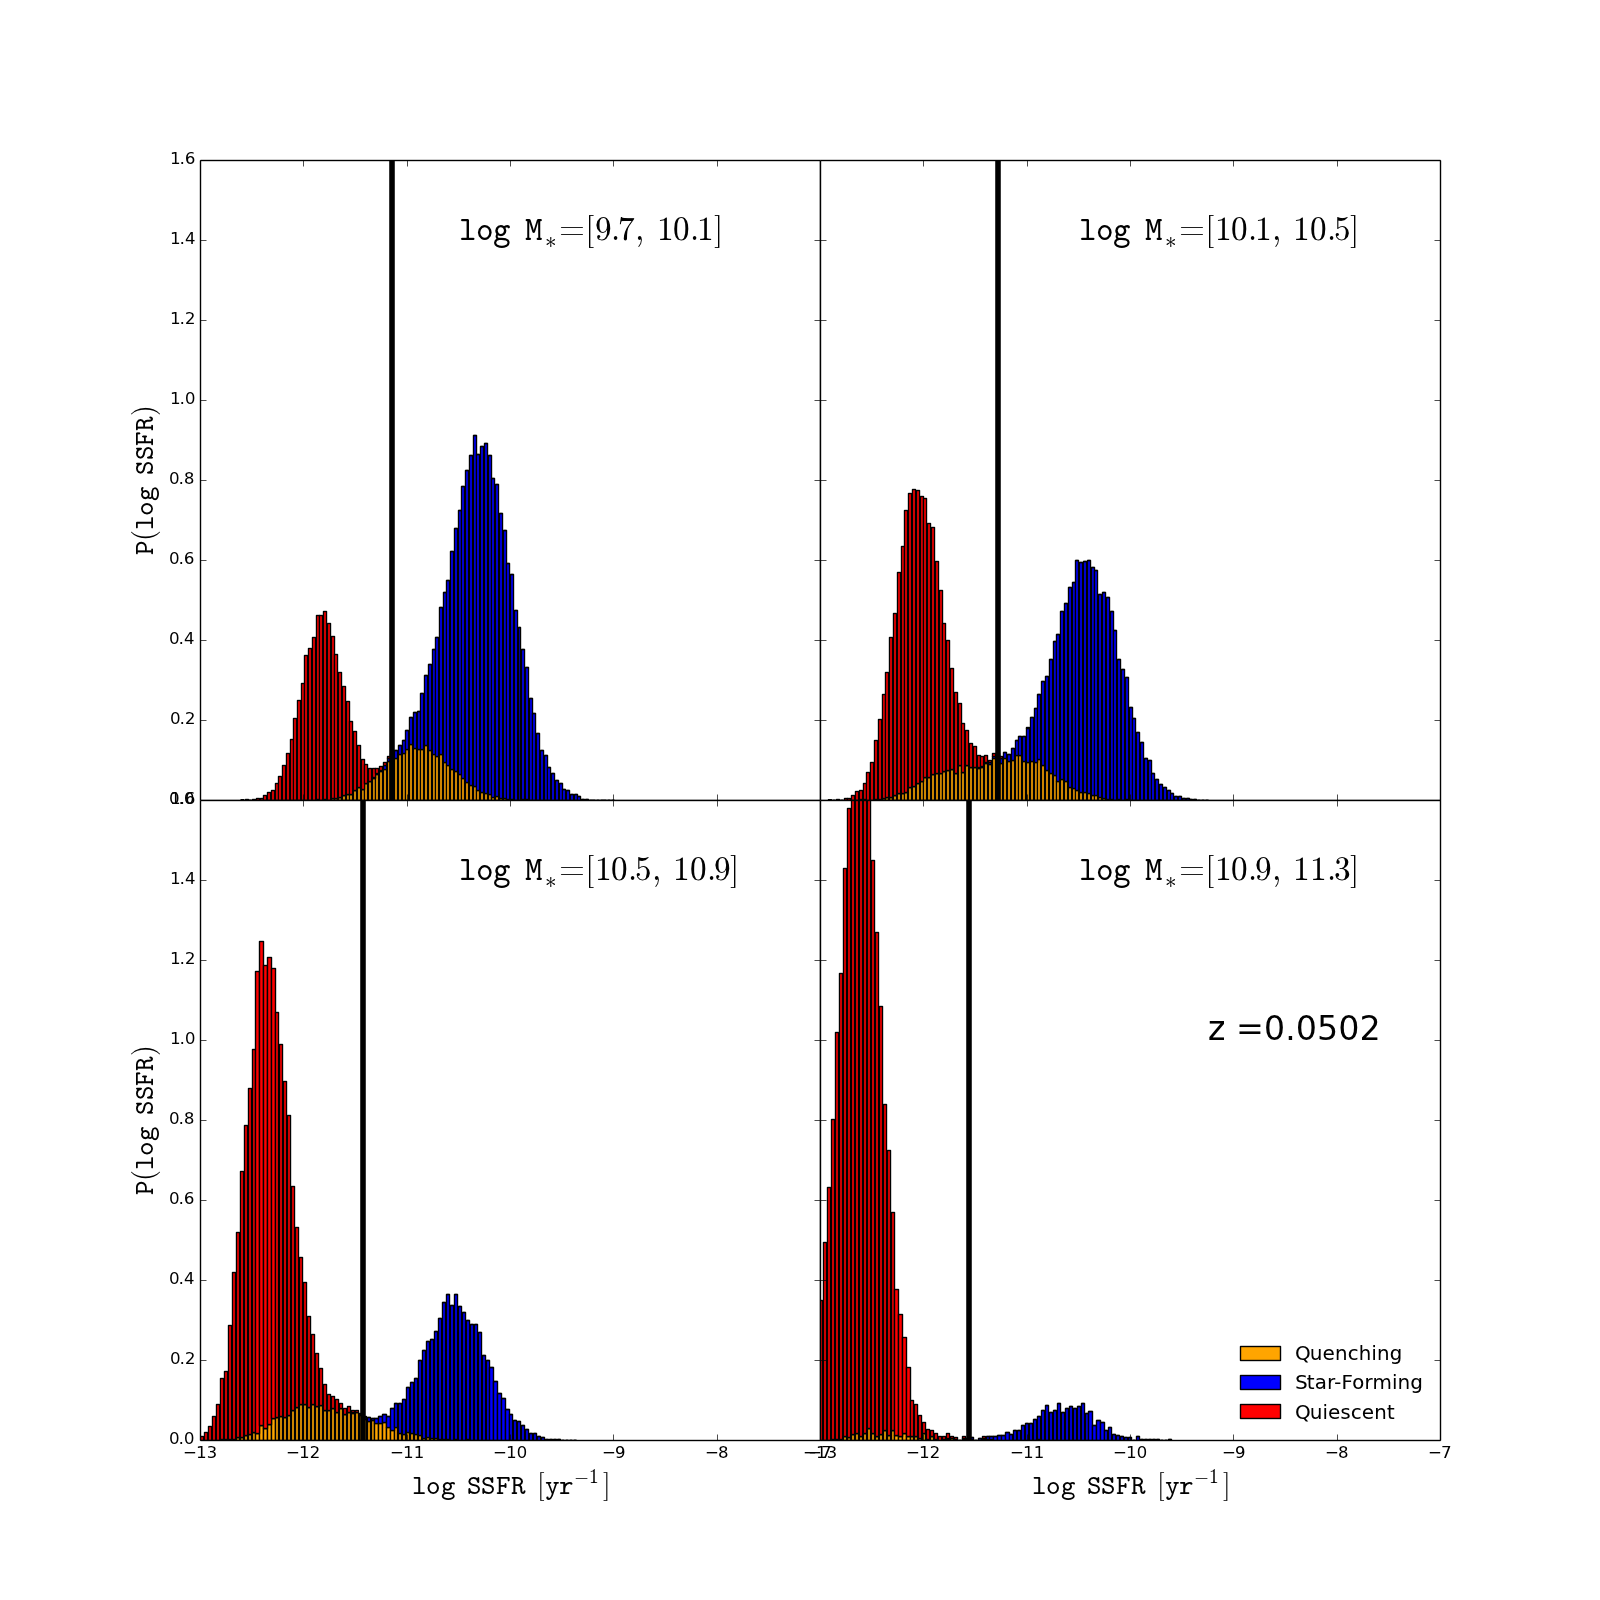
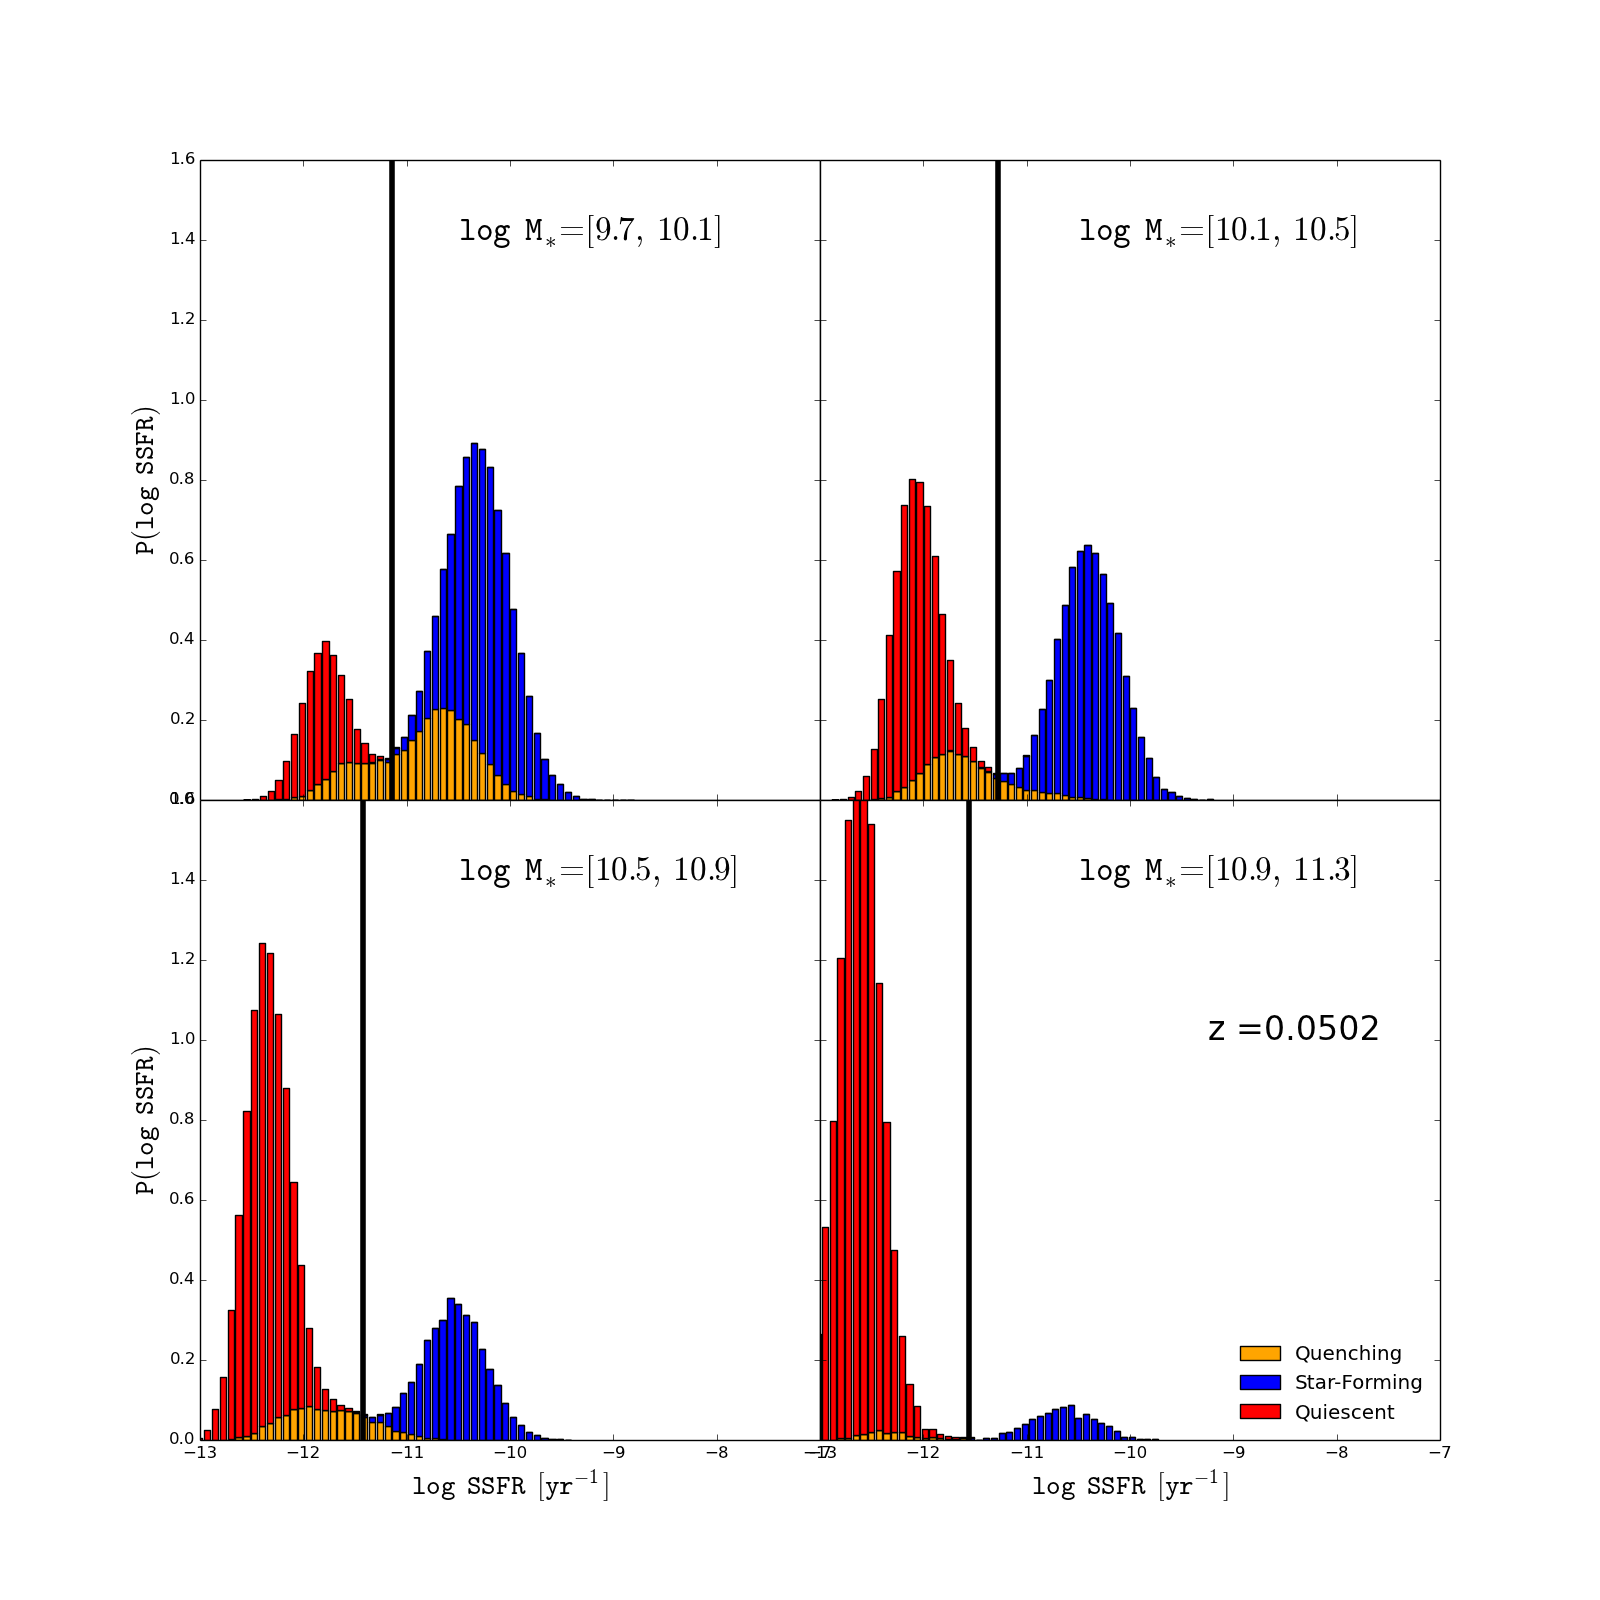
predictive quenching implemented

diff --git a/plotting/plot_cenque_fq.py b/plotting/plot_cenque_fq.py
@@ -28,6 +28,9 @@ def PlotFq(object):
         
         self.kwargs = kwargs
         
+        # Corresponding redshift for the snapshot 
+        self.zbin = np.loadtxt('snapshot_table.dat', unpack=True, usecols=[2])
+        
         self.mass_bin = np.arange(9.0, 12.0, 0.2)   # mass bin 
         self.mass_low = self.mass_bin[:-1]
         self.mass_high= self.mass_bin[1:]
@@ -46,10 +49,7 @@ def PlotFq(object):
         fq_type : type of queiscent fraction  
 
         """
-    
-        # Corresponding redshift for the snapshot 
-        zbin = np.loadtxt('snapshot_table.dat', unpack=True, usecols=[2])
-        zbin = zbin[nsnap]
+        zbin = self.zbin[nsnap]
 
         self.subs = self.fig.add_subplot(111)
 
@@ -115,13 +115,8 @@ def PlotFq(object):
         plt.show()
 
 
-
-
-def plot_fqobs_snapshot_evol(
-        nsnaps = [1,2,3,4,5,6,7,8,9,10,11,12],
-        fq_type = 'wetzelsmooth', 
-        **kwargs
-        ): 
+def plot_fqobs_snapshot_evol( 
+        nsnaps = [1,2,3,4,5,6,7,8,9,10,11,12], fq_type='wetzelsmooth', cenque_type='sf_assigned', tau_prop={'name': 'instant'}, **kwargs): 
     ''' Plot the observed quiescent fraction of snapshots
 
     Parameters
@@ -129,7 +124,6 @@ def plot_fqobs_snapshot_evol(
     nsnaps : list of snapshots
     fqtype : type of queiscent fraction  
     '''
-
     #prettyplot()        # make pretty 
     pretty_colors = prettycolors() 
 
@@ -140,43 +134,50 @@ def plot_fqobs_snapshot_evol(
     mass_low = mass_bin[:-1]
     mass_high = mass_bin[1:]
     mass_mid = 0.5 * (mass_low + mass_high)
-    print mass_mid
        
     fig, subs = plt.subplots(1,2, figsize=[10, 5]) 
     subs = subs.ravel() 
 
-    snap = CenQue(n_snap = 13) 
-    snap.cenque_type = 'sf_assigned'
-    snap.readin()
+    if 'evol_from' in cenque_type: 
 
-    fq_mass, fq = [], [] 
-    for i_m in xrange(len(mass_mid)): 
+        start_nsnap = cenque_type.split('evol_from')[-1]
+
+        snap = CenQue(n_snap = start_nsnap) 
+        snap.cenque_type = 'sf_assigned'
+        snap.readin()
+
+        fq_mass, fq = [], [] 
+
+        for i_m in xrange(len(mass_mid)): 
+
+            mass_bin_index = np.where(
+                    (snap.mass > mass_low[i_m]) & 
+                    (snap.mass <= mass_high[i_m])
+                    )
+            ngal = len(mass_bin_index[0])
+            
+            if ngal == 0: 
+                continue 
+
+            sfqs = sfq_classify( 
+                    snap.mass[mass_bin_index], 
+                    snap.sfr[mass_bin_index], 
+                    snap.zsnap 
+                    ) 
+
+            ngal_q = np.float(np.sum(sfqs == 'quiescent')) 
+
+            fq_mass.append(mass_mid[i_m]) 
+            fq.append(ngal_q/ngal) 
         
-        mass_bin_index = np.where(
-                (snap.mass > mass_low[i_m]) & 
-                (snap.mass <= mass_high[i_m])
-                )
-        ngal = len(mass_bin_index[0])
-        
-        if ngal == 0: 
-            continue 
-
-        sfqs = sfq_classify( 
-                snap.mass[mass_bin_index], 
-                snap.sfr[mass_bin_index], 
-                snap.zsnap 
-                ) 
-
-        ngal_q = np.float(np.sum(sfqs == 'quiescent')) 
-
-        fq_mass.append(mass_mid[i_m]) 
-        fq.append(ngal_q/ngal) 
-    
-    subs[0].plot(fq_mass, fq, color='black', ls='--', lw=4, label='z= '+str(snap.zsnap)) 
+        subs[0].plot(fq_mass, fq, color='black', ls='--', lw=4) 
     
     for i_nsnap in nsnaps: 
+
         snap = CenQue(n_snap = i_nsnap ) 
-        snap.cenque_type = 'evol_from13'
+        snap.cenque_type = cenque_type
+        snap.fq_prop = {'name': fq_type}
+        snap.tau_prop = tau_prop
         snap.readin() 
 
         fq_mass, fq = [], [] 
@@ -200,7 +201,7 @@ def plot_fqobs_snapshot_evol(
             fq_mass.append(mass_mid[i_m]) 
             fq.append(ngal_q/ngal) 
         
-        subs[0].plot(fq_mass, fq, color=pretty_colors[i_nsnap-1], lw=4, label='z= '+str(snap.zsnap)) 
+        subs[0].plot(fq_mass, fq, color=pretty_colors[i_nsnap-1], lw=4) 
     
     subs[0].set_title('Snapshots')
     subs[0].set_xlim([9.0, 12.0])
@@ -215,7 +216,7 @@ def plot_fqobs_snapshot_evol(
                 fq_mass, 
                 color=pretty_colors[i_z], 
                 lw=4, 
-                label='z = '+str(z) 
+                label=str(z) 
                 ) 
     
     subs[1].set_title(fq_type) 
@@ -226,7 +227,7 @@ def plot_fqobs_snapshot_evol(
     subs[1].set_xlabel('Mass') 
 
     subs[0].set_ylabel('Quiescent Fraction') 
-    plt.legend()
+    #plt.legend(loc='upper left')
     plt.show()
 
 def plot_fqobs_snapshot(nsnap, fq_type='wetzelsmooth', cenque_type='sf_assigned', tau_prop={'name': 'instant'}, **kwargs): 
@@ -455,6 +456,7 @@ def plot_fq_evol():
 
 if __name__=="__main__":
     #plot_fq_evol()
-    #plot_fqobs_snapshot_evol(nsnaps = [2,3,4,5,6,7,8,9,10,11,12])
+    #plot_fqobs_snapshot_evol(nsnaps = [1,2,3,4,5,6,7,8,9,10,11,12], fq_type='wetzelsmooth', cenque_type='evol_from13', tau_prop={'name': 'satellite'})
+    
     for i_nsnap in [12,11,10,9,8,7,6,5,4,3,2,1]:
         plot_fqobs_snapshot(i_nsnap, fq_type='wetzelsmooth', cenque_type='evol_from13', tau_prop={'name': 'satellite'})

diff --git a/evolve.py b/evolve.py
@@ -14,6 +14,7 @@ from cenque import CenQue
 from util import cenque_utility as util
 from assign_sfr import assign_sfr
 from quiescent_fraction import get_fq
+from quiescent_fraction import get_fq_nsnap
 from util.gal_classify import sfr_cut 
 from util.gal_classify import sfq_classify
 from sfms.fitting import get_param_sfr_mstar_z
@@ -259,6 +260,14 @@ def evolve_onestep(parent_cq, child_cq, quiet=False):
             lit = child_cq.fq_prop['name']
             ) 
     
+    # f_Q of descendant 
+    descendant_fq = get_fq_nsnap(
+            mass_bins.mass_mid, 
+            child_cq.nsnap - 2, 
+            lit = child_cq.fq_prop['name']
+            )
+    descendant_tcosmic = util.get_t_nsnap(child_cq.nsnap - 2)
+    
     # expected number of quiescent galaxies = Ngal * f_Q
     # N_gal,exp * f_Q(M_bin)
     exp_ngal_q = np.rint( child_fq * ngal_mass_bin ).astype(int)
@@ -276,6 +285,9 @@ def evolve_onestep(parent_cq, child_cq, quiet=False):
             for i_m in xrange(mass_bins.nbins)
             ]
     ngal2quench = exp_ngal_q - ngal_mass_bin + ngal_sf_mass_bin 
+    
+    exp_exp_ngal_q = np.rint( descendant_fq * ngal_mass_bin ).astype(int)
+    ngal2quenchfuture = exp_exp_ngal_q - ngal_mass_bin + ngal_sf_mass_bin 
 
     quench_index = [] 
     quenching_start_time = time.time()
@@ -287,10 +299,12 @@ def evolve_onestep(parent_cq, child_cq, quiet=False):
         quench_index += quenching_galaxies_massbin(
                 child_cq, 
                 child_cq.t_cosmic - parent_cq.t_cosmic, 
+                descendant_tcosmic - parent_cq.t_cosmic, 
                 mass_bins.mass_mid[i_m], 
                 mass_bin_indices[i_m], 
                 sf_massbin_indices[i_m], 
                 ngal2quench[i_m], 
+                ngal2quenchfuture[i_m], 
                 quiet=quiet
                 )
 
@@ -345,7 +359,7 @@ def evolve_onestep(parent_cq, child_cq, quiet=False):
 
     return child_cq
 
-def quenching_galaxies_massbin(cenque, delta_t_cosmic, m_bin_mid, indices, sf_indices, ngal2quench, quiet=False):
+def quenching_galaxies_massbin(cenque, delta_t_cosmic, descendant_t, m_bin_mid, indices, sf_indices, ngal2quench, ngal2quench_future, quiet=False):
     """ Select which star-forming galaxies to quench in a specified mass bin 
     """
 
@@ -390,35 +404,43 @@ def quenching_galaxies_massbin(cenque, delta_t_cosmic, m_bin_mid, indices, sf_in
             cenque.sfr[sf_indices] + pred_tau_quench, 
             cenque.zsnap
             )
-    #print cenque.sfr[sf_indices] + pred_tau_quench
-    #print sfr_cut(cenque.mass[sf_indices], cenque.zsnap)
-
+    
     pred_ngal_q = np.float(np.sum(pred_sfqs == 'quiescent'))
+    
+    predpred_tau_quench = np.log10(np.exp( 
+        -1.0 * descendant_t / pred_taus 
+        ))      
+
+    predpred_sfqs = sfq_classify(
+            cenque.mass[sf_indices], 
+            cenque.sfr[sf_indices] + predpred_tau_quench, 
+            util.get_z_nsnap(cenque.nsnap - 2) 
+            )
+    predpred_ngal_q = np.float(np.sum(predpred_sfqs == 'quiescent'))
 
     if pred_ngal_q == 0: 
         warnings.warn('Quenching time-scale is too long')
         #raise ValueError("What the fuck") 
         
     # Quenching fraction evalutation
-    alpha = 1.5
-    fqing1 = 0.025 * (m_bin_mid - 9.5) * (1.8 - cenque.zsnap)**alpha + 0.15
+    #alpha = 1.5
+    #fqing1 = 0.025 * (m_bin_mid - 9.5) * (1.8 - cenque.zsnap)**alpha + 0.15
 
     if ngal2quench == ngal_sf: 
-        fqing2 = 1.0
+        pred_fqing = 1.0
+        predpred_fqing = 1.0
     else: 
         try: 
-            fqing2 = np.float(ngal2quench)/np.float(pred_ngal_q)
+            pred_fqing = np.float(ngal2quench)/np.float(pred_ngal_q)
         except ZeroDivisionError: 
-            fqing2 = 1.0
+            pred_fqing = 1.0
 
-    #if (m_bin_mid < 11.0) and (fqing2 > fqing1): 
-    #    f_quenching = fqing1
-    #    if not quiet:
-    #        print '####################################### FQING 2 > FQING 1'
-    #else: 
-    f_quenching = fqing2
-    print 'Fqing_1 = ', fqing1
-    print 'Quenching fraction = ', f_quenching
+        try: 
+            predpred_fqing = np.float(ngal2quench_future)/np.float(predpred_ngal_q)
+        except ZeroDivisionError: 
+            predpred_fqing = 1.0
+
+    f_quenching = min(pred_fqing, predpred_fqing)
 
     if f_quenching <= 0.0: 
         f_quenching = 0.0
@@ -459,10 +481,10 @@ def parent_children_match(parent_snap_index, child_parent_snap_index):
     return parents, children 
 
 if __name__=='__main__': 
-    blah = CenQue(n_snap=20, cenque_type='sf_assigned')
-    blah.import_treepm(20)
-    blah.writeout()
-    blah = assign_sfr(blah)
-    blah.writeout()
+    blah = CenQue(n_snap=13, cenque_type='sf_assigned')
+    #blah.import_treepm(20)
+    #blah.writeout()
+    #blah = assign_sfr(blah)
+    #blah.writeout()
     blah.readin()
     blah = evolve_cq(blah, tau_prop = {'name': 'satellite'}, quiet=True)

diff --git a/util/cenque_utility.py b/util/cenque_utility.py
@@ -341,6 +341,40 @@ def get_tsnap(redshift):
 
     return t_of_z(redshift) 
 
+def get_z_nsnap(nsnap): 
+    ''' Given redshift, return cosmic time using spline interpolation of snapshot table
+
+    Parameters
+    ----------
+    redshift : redshift 
+
+    Notes
+    -----
+    * Only worry is that it may take too long
+
+    '''
+    # read in snapshot table file 
+    z = np.loadtxt('snapshot_table.dat', unpack=True, usecols=[2]) 
+
+    return z[nsnap]
+
+def get_t_nsnap(nsnap): 
+    ''' Given redshift, return cosmic time using spline interpolation of snapshot table
+
+    Parameters
+    ----------
+    redshift : redshift 
+
+    Notes
+    -----
+    * Only worry is that it may take too long
+
+    '''
+    # read in snapshot table file 
+    t = np.loadtxt('snapshot_table.dat', unpack=True, usecols=[3]) 
+
+    return t[nsnap]
+
 """
 def cenque_file( **kwargs ): 
     ''' Given kwargs get CenQue file name

diff --git a/quiescent_fraction.py b/quiescent_fraction.py
@@ -88,6 +88,26 @@ def get_fq(Mstar, z_in, lit='cosmosinterp'):
     else: 
         raise NameError('Not yet coded') 
 
+def get_fq_nsnap(Mstar, nsnap, **kwargs): 
+    ''' Calculate the quiescent fraction as a funcnction of 
+    stellar mass and redshift. Different methods of calculating 
+    quiescent fraction is implemented. 
+
+    f_Q ( M_star, z) 
+
+    ----------------------------------------------------------------
+    Parameters
+    ----------------------------------------------------------------
+    Mstar : stellar mass
+    nsnap : redshift 
+    lit : 'cosmosinterp', 
+
+    '''
+    z_snap = np.loadtxt('snapshot_table.dat', unpack=True, usecols=[2])
+
+    return get_fq(Mstar, z_snap[nsnap], **kwargs) 
+
+
 def get_fq_alpha(Mstar, z_in, alpha): 
     ''' Quiescent fraction evolved from z = 0.88 by (1+z)^alpha where alpha is a free parameter
     '''
